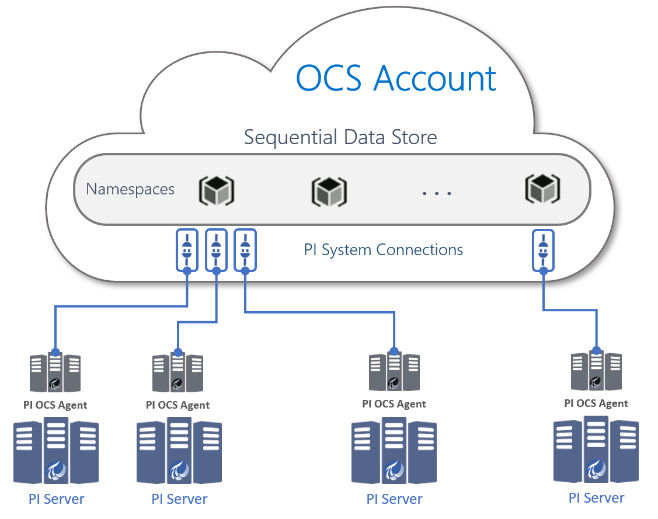
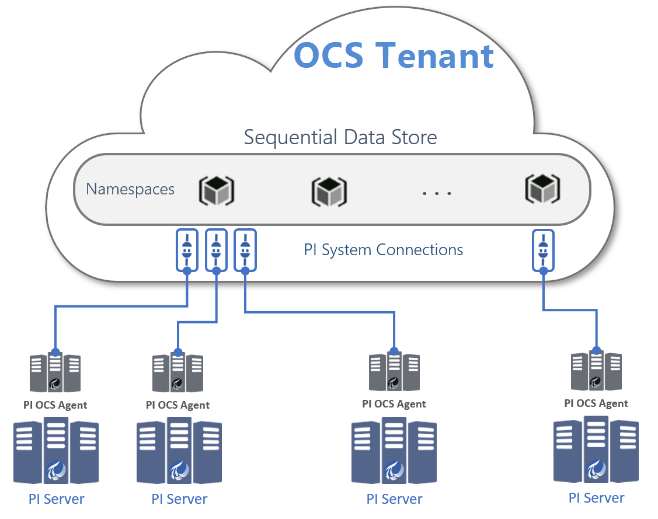
WI 187877 - Doc updates
Various  updates to M2 doc as requested by OldIsNew.

Changed region(s): [[0.4255, 0.0617, 0.7599, 0.185]]

diff --git a/Content_Portal/How_To_Guides/PI-to-OCS/Set-up-PI-to-OCS/install-agent.md b/Content_Portal/How_To_Guides/PI-to-OCS/Set-up-PI-to-OCS/install-agent.md
@@ -4,7 +4,7 @@ uid: install-pi-to-ocs-agent
 
 # Install the PI to OCS Agent
 
-The PI to OCS Agent must be installed on a host computer that is separate from your PI Data Archive deployment. The account used to install the agent must be assigned to the OCS Administrative Account role. You can download the PI to OCS Agent Installation kit and then transfer it to the computer that will host the agent.
+The PI to OCS Agent must be installed on a host computer, separate from your PI Data Archive deployment, using a Windows account with local Administrative privileges. You can download the PI to OCS Agent Installation kit and then transfer it to the computer that will host the agent.
 
 **Note.** The PI to OCS Agent installation cannot be completed if the system time is not correct. Additionally, you will not be able to complete the PI to OCS Agent installation if Internet Explorer Enhanced Security configuration is enabled.  See [Disable Internet Explorer Enhanced Security Configuration](xref:disable-ie-security) for details.
 
@@ -26,7 +26,7 @@ The PI to OCS Agent must be installed on a host computer that is separate from y
 
     _The Welcome Screen in the PI to OCS Agent Setup Kit_
 8. In the **PI to OCS Agent (Administrator)** window, click **Next**.
-9. Enter your OCS account ID or company alias, then click **Next**.
+9. Enter your OCS Tenant ID or company alias, then click **Next**.
 10. Select or enter the following for your connection:
     - **Namespace:** Select the location where data will be stored after the data transfer. The region indicates where the namespace resides. Streaming data sent by the PI to OCS Agent will only go to the selected namespace’s region.
     - **Connection:** Select the name of the data transfer connection you created earlier. 
@@ -39,9 +39,9 @@ The PI to OCS Agent must be installed on a host computer that is separate from y
 
 12. Click **Next**.
 13. Select the service account type for the connection:
-    - **NT Service**: Use an NT account to connect to PI Data Archive.
+    - **NT Service**: Use a Network Service account to connect to PI Data Archive.
     - **This account**: Specify a user name and password (domain\account) to connect to PI Data Archive.
-**Note.** The service account must have Administrative privileges <Need link> and read access to certain data on PI Data Archive.
+**Note.** The service account must have Administrative privileges and read access to certain data on PI Data Archive.
     ![ ](../../images/pi2ocs-serv-acct.png)
 _The Service Account screen in the PI to OCS Agent Setup Kit_
 

diff --git a/Content_Portal/How_To_Guides/PI-to-OCS/Set-up-PI-to-OCS/access-ocs-portal.md b/Content_Portal/How_To_Guides/PI-to-OCS/Set-up-PI-to-OCS/access-ocs-portal.md
@@ -8,7 +8,7 @@ Log on to the OCS customer portal to access and install the PI to OCS agent and 
 
 ## Before you start
 
-Make sure to have your OCS account log on credentials, your company alias or account ID, and your account’s namespace for the data transfer. <!-- I want to make a link to Account_Management_Concepts.md and then to the Namespace section within, but there's no UID for that topic -->
+Make sure to have your OCS account log on credentials, your company alias or Tenant ID, and your Tenant's namespace for the data transfer. <!-- I want to make a link to Account_Management_Concepts.md and then to the Namespace section within, but there's no UID for that topic -->
 
 **Note.** If you encounter any issues, please refer to your initial OCS activation email or [https://cloud.osisoft.com/account](https://cloud.osisoft.com/account) for help.
 
@@ -16,11 +16,11 @@ Make sure to have your OCS account log on credentials, your company alias or acc
 
 1. Navigate to the [OCS customer portal](https://cloud.osisoft.com).
 2. In the upper-right corner of the OCS portal window, click **Sign In**.
-3. In the **Specify Account ID or Company Alias** window, enter your account ID or company alias.
+3. In the **Specify Tenant ID or Company Alias** window, enter your Tenant ID or company alias.
 4. Click **Continue**.
-5. At the sign in window, sign in to OCS using an account assigned to the Account Administrator role.
+5. At the sign in window, sign in to your OCS Tenant using a user account that has Account Administrator privileges.
 
-<br>**Note.** In the screenshot below, the OCS account is configured to use both a Microsoft Account (MSA) and Google to sign in again.  Be sure to sign in to the OCS portal with an account assigned to the Account Administrator role.<br>
+<br>**Note.** In the screenshot below, the OCS user is configured to use both a Microsoft Account (MSA) and Google to sign in again.  Be sure to sign in to the OCS portal with an account assigned to the Account Administrator role.<br>
 
 ![ ](../../images/sign-in-screen.png)
 _Sign in window_

diff --git a/Content_Portal/How_To_Guides/PI-to-OCS/Overview-PI-to-OCS/min-sys-reqmnts.md b/Content_Portal/How_To_Guides/PI-to-OCS/Overview-PI-to-OCS/min-sys-reqmnts.md
@@ -14,14 +14,14 @@ The following system requirements are needed to transfer data from your on-premi
 
 ## Administrative privileges
 
-The PI to OCS Agent must be installed on a local machine by a user who has the following permissions: 
+The PI to OCS Agent must be installed on a local machine by a user with the following permissions: 
 
 1.	Administrative privileges on the local machine
-2.	OCS Account Administrator role privileges 
+2.	Assigned to the OCS Account Administrator role
 
 During the PI to OCS Agent installation, you will be prompted to log on to the OCS portal. 
 
-**Note:** You must log on to the OCS portal with an account assigned to the Account Administrator role. 
+**Note:** Make sure to log on to OCS with the correct Account Administrator credentials. 
 
 
 The PI to OCS Agent requires the Windows service to "run as user". You must have read access to the following data on PI Data Archive:

diff --git a/Content_Portal/How_To_Guides/PI-to-OCS/main-landing-page.md b/Content_Portal/How_To_Guides/PI-to-OCS/main-landing-page.md
@@ -5,8 +5,7 @@ uid: main-landing-page
 
 ## PI to OCS
 <br>
-
-This section of the OCS Content portal contains documentation on how to use PI to OCS to transfer data from your on-prem PI Server to OCS. The topics in this guide contain the following information:
+This section of the OCS Content portal contains documentation on how to use PI to OCS to transfer data from your on-prem PI Server to OCS. The PI to OCS content contains the following sections:
 <br>
 <br>
 
